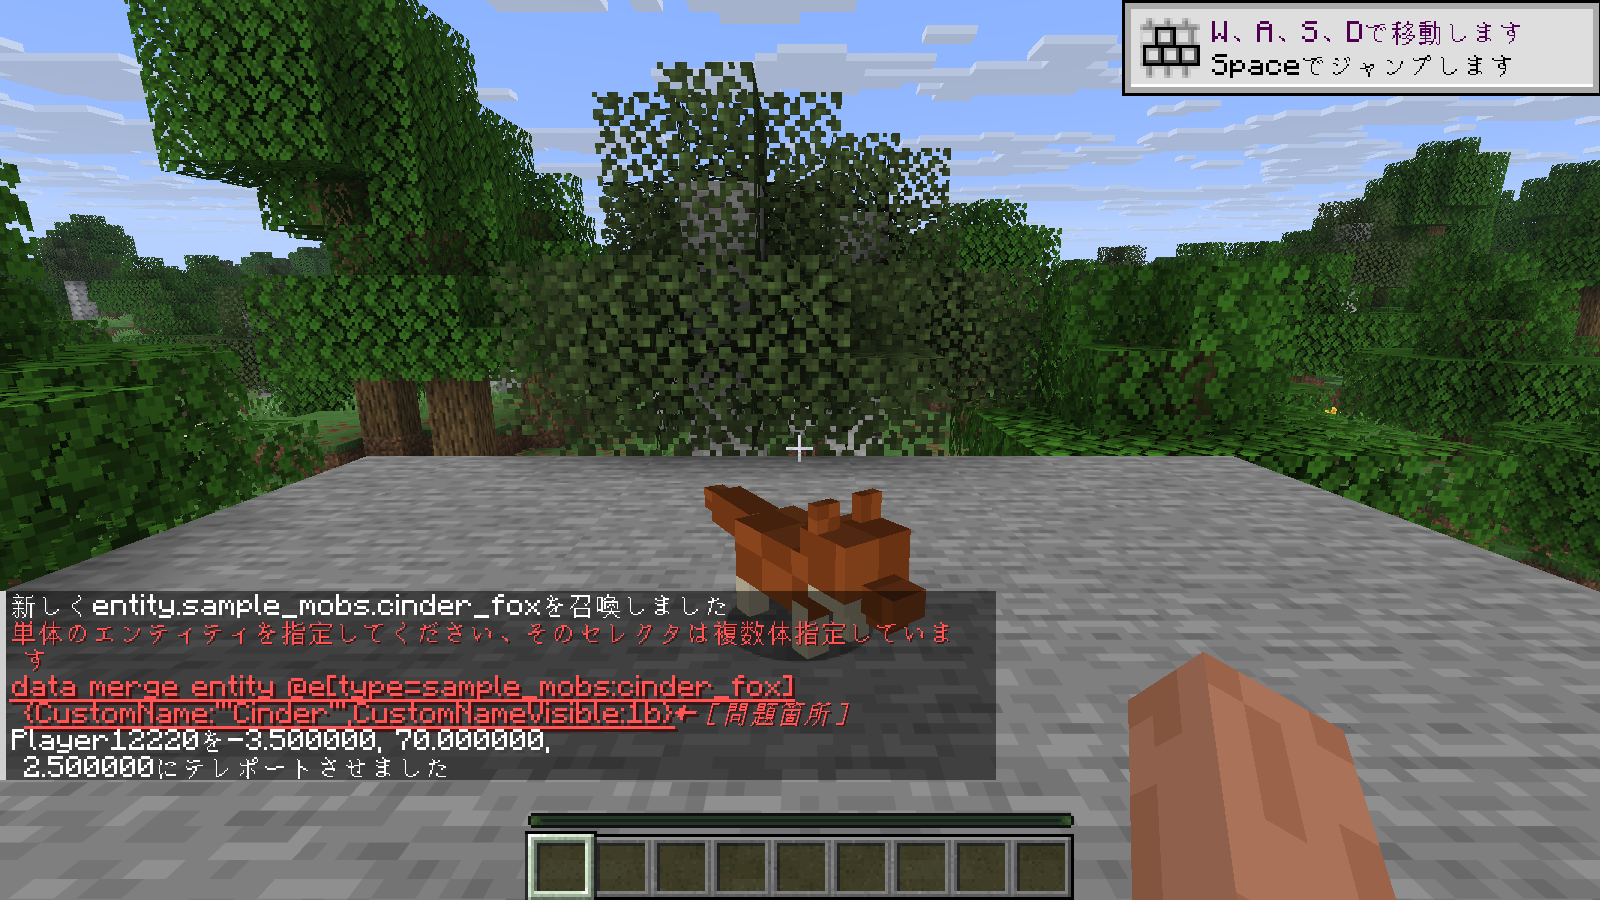
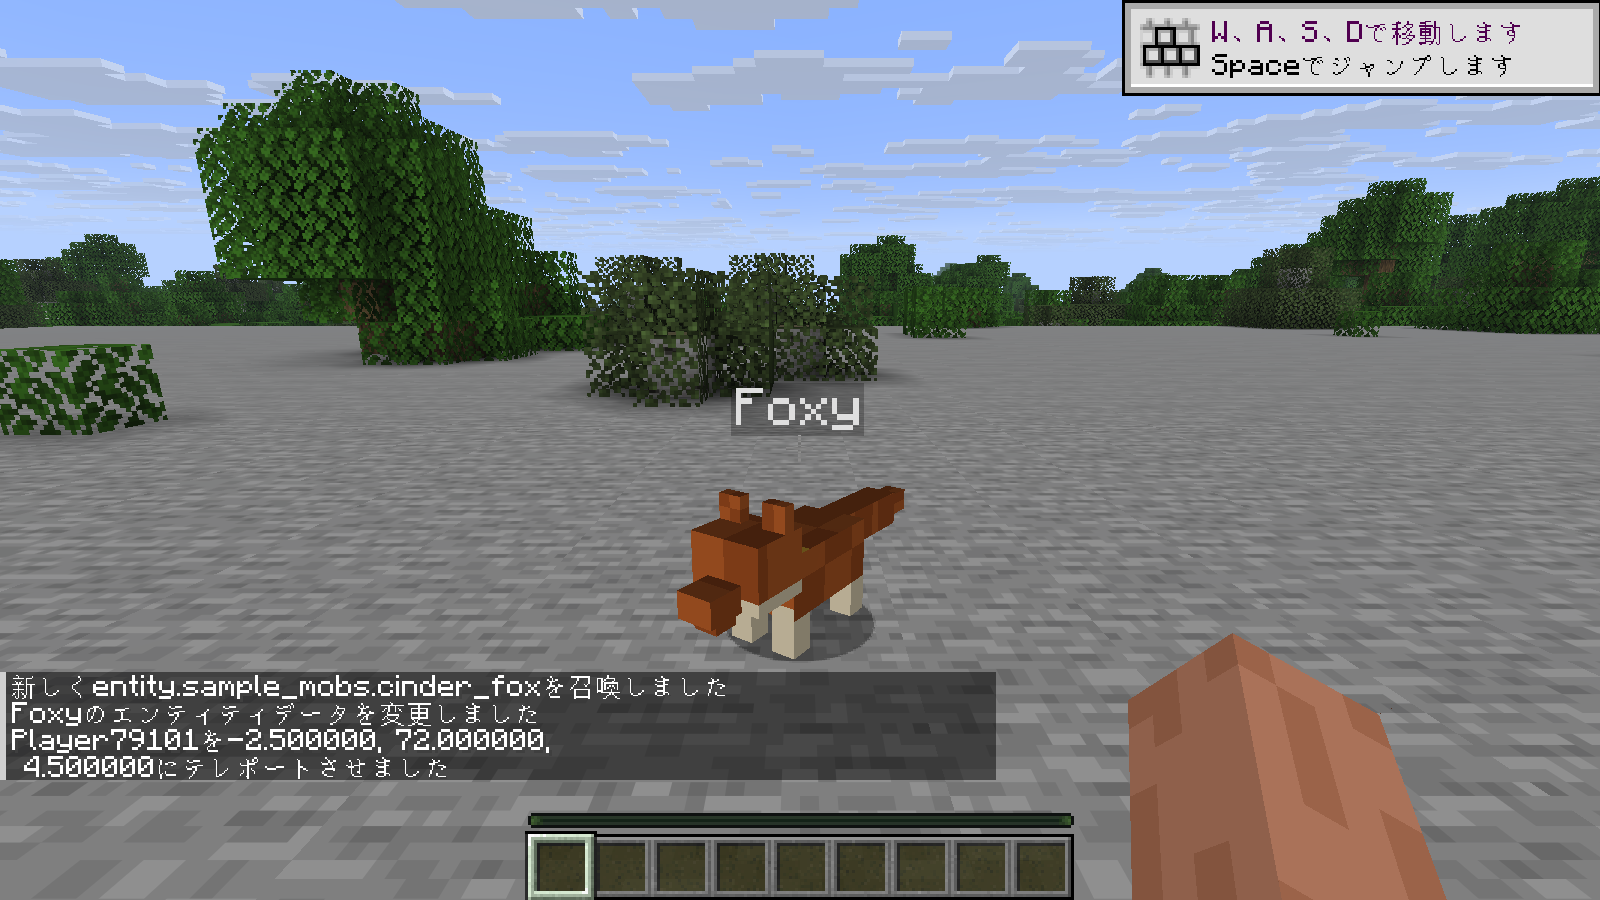
MERGE7: real fox_ai guest mode in custom_mob_render_e2e.py, script-goal gate log, raw log lines

diff --git a/tools/custom_mob_render_e2e.py b/tools/custom_mob_render_e2e.py
@@ -45,11 +45,11 @@ from lan_e2e import Game, changed_pixels, pos_of  # noqa: E402
 from mob_sync_e2e import wait_for_quiet  # noqa: E402
 
 ROOT = Path(__file__).resolve().parents[1]
-FIXTURE = ROOT / 'tools/fixtures/cinder_fox'
+FIXTURE = ROOT / 'tools/fixtures/cinder_fox'  # the package folder: yak.toml and content/
 FOX = 'sample_mobs:cinder_fox'
 FOXES = '@e[type=sample_mobs:cinder_fox]'
-ANIM = 'assets/sample_mobs/animations/cinder_fox.animation.json'
-TYPE = 'data/sample_mobs/horizon/entity_type/cinder_fox.json'
+ANIM = 'content/assets/sample_mobs/animations/cinder_fox.animation.json'
+TYPE = 'content/data/sample_mobs/horizon/entity_type/cinder_fox.json'
 
 SERVER_FRAME = re.compile(r'Horizon custom-mob server frame: mob (\d+) "(\w+)" tick (\d+)')
 EVENTS = re.compile(r'Horizon custom-mob events: mob (\d+) tick (\d+) count (\d+)')
@@ -58,10 +58,15 @@ PARTICLE = re.compile(r'Horizon custom-mob particle: mob (\d+) (\S+) at')
 EVENT = re.compile(r'Horizon custom-mob event: mob (\d+) "(\w+)" at')
 
 
-def patched_fixture(scratch):
-    """A copy of the fixture with a sound and a particle at the pounce's hit, and a melee goal that pounces."""
+def patched_fixture(scratch, wasm=None):
+    """A copy of the package with a sound and a particle at the pounce's hit. With `wasm` (the built fox_ai guest) the
+    real script goal stays and the player becomes a target; without it the script goal is replaced by a data
+    `melee_attack` that pounces."""
     dest = scratch / 'cinder_fox'
     shutil.copytree(FIXTURE, dest)
+    if wasm is not None:
+        (dest / 'bin/wasm').mkdir(parents=True, exist_ok=True)
+        shutil.copyfile(wasm, dest / 'bin/wasm/fox_ai.wasm')
     path = dest / ANIM
     data = json.loads(path.read_text(encoding='utf-8'))
     pounce = data['animations']['animation.cinder_fox.pounce']
@@ -73,6 +78,12 @@ def patched_fixture(scratch):
     data['attributes']['attack_damage'] = 2
     data['model']['particles'] = {'flame': 'minecraft:flame'}
     ai = data['ai']
+    if wasm is not None:
+        # The real script goal beside swimming only (no wandering, sitting or following), so the fox stands until it has a target.
+        ai['goals'] = [g for g in ai['goals'] if g['type'] in ('swim', 'script')]
+        ai['targets'] = [{'type': 'nearest_target', 'priority': 1, 'types': ['minecraft:chicken', 'minecraft:player']}]
+        path.write_text(json.dumps(data, indent=2), encoding='utf-8')
+        return dest
     # No wandering or looking about: the fox stands still until it has a target (a creative player is none).
     ai['goals'] = [g for g in ai['goals'] if g['type'] in ('swim',)]
     ai['goals'].append({'type': 'melee_attack', 'priority': 2, 'speed': 1.0, 'interval': 600,
@@ -81,6 +92,16 @@ def patched_fixture(scratch):
     ai['targets'] = [{'type': 'nearest_target', 'priority': 1, 'types': ['minecraft:chicken', 'minecraft:player']}]
     path.write_text(json.dumps(data, indent=2), encoding='utf-8')
     return dest
+
+
+def install_package(game, package):
+    """The package where the game reads installed ones (yoake-mods.txt, yoake-mods/<id>/<version>/)."""
+    root = game.work / 'yoake-mods/sample_mobs/0.1.0'
+    shutil.copytree(package, root)
+    (game.work / 'yoake-mods.txt').write_text('sample_mobs 0.1.0' + chr(10))
+
+
+STRIKE_LINE = re.compile(r'^.*Horizon custom-mob (?:strike|death|script goal):.*$', re.M)
 
 
 def log_of(game):
@@ -111,11 +132,18 @@ def look_at_fox(game, fox, back=2.0, dy=0.6):
     game.wait(6)
 
 
-def run(ctl, out, shots, resources):
+def run(ctl, out, shots, resources, wasm=None):
     scratch = Path(tempfile.mkdtemp(prefix='hzfox-'))
-    mod = patched_fixture(scratch)
+    mod = patched_fixture(scratch, wasm)
+    if wasm is not None:
+        os.environ['YOAKE_WASM_UNSIGNED'] = '1'  # developer mode: the package is not signed
     host, guest = Game('host', ctl, resources), Game('guest', ctl, resources)
-    args = ['--offscreen', '--no-focus', '--no-pause', '--pregen', '--dev-mod', str(mod)]  # --pregen turns Horizon's own commands on
+    args = ['--offscreen', '--no-focus', '--no-pause', '--pregen']  # --pregen turns Horizon's own commands on
+    if wasm is None:
+        args += ['--dev-mod', str(mod / 'content')]
+    else:
+        install_package(host, mod)
+        install_package(guest, mod)
     results = {}
     games = (host, guest)
     saved = {}
@@ -214,7 +242,7 @@ def run(ctl, out, shots, resources):
         # name tag
         host('command', command=f'summon {FOX} {hx + 0.5} {hy} {hz - 6.5}')
         host.wait(20)
-        named = host('command', command=f"data merge entity @e[type=sample_mobs:cinder_fox,limit=1] {{CustomName:\"Cinder\",CustomNameVisible:1b}}")
+        named = host('command', command=f"data merge entity @e[type=sample_mobs:cinder_fox,limit=1] {{CustomName:\"Foxy\",CustomNameVisible:1b}}")
         host.wait(10)
         fox = fox_list(host)[0]
         look_at_fox(host, fox, back=3.0, dy=0.9)
@@ -224,58 +252,64 @@ def run(ctl, out, shots, resources):
         results['name'] = {'pass': named_ok and Path(tag).stat().st_size > 5000, 'detail': {
             'data_merge_reply': named, 'png': saved['nametag'], 'note': 'the tag is judged by looking at the PNG (a pixel check cannot tell text)'}}
 
-        # strike-mob: a fox next to a chicken (creative host: no player target): the blow lands on the chicken.
-        host('command', command=f'kill @e[type=minecraft:chicken]')
-        host('command', command=f'summon minecraft:chicken {hx + 1.5} {hy} {hz - 1.5}')
-        host.wait(5)
-        mark_h = len(log_of(host))
-        host('command', command=f'summon {FOX} {hx + 1.5} {hy} {hz - 0.8}')
-        chicken_hp = []
-        for _ in range(100):
-            host.wait(2)
+        if wasm is None:
+            # strike-mob: a fox next to a chicken (creative host: no player target): the blow lands on the chicken.
+            host('command', command=f'kill @e[type=minecraft:chicken]')
+            host('command', command=f'summon minecraft:chicken {hx + 1.5} {hy} {hz - 1.5}')
+            host.wait(5)
+            mark_h = len(log_of(host))
+            host('command', command=f'summon {FOX} {hx + 1.5} {hy} {hz - 0.8}')
+            chicken_hp = []
+            for _ in range(100):
+                host.wait(2)
+                chickens = [e for e in host.raw('entities', 20)['entities'] if e.get('type') == 'minecraft:chicken']
+                chicken_hp.append(chickens[0]['health'] if chickens else None)
+                if SERVER_FRAME.search(log_of(host)[mark_h:]):
+                    break
+            host.wait(10)
             chickens = [e for e in host.raw('entities', 20)['entities'] if e.get('type') == 'minecraft:chicken']
             chicken_hp.append(chickens[0]['health'] if chickens else None)
-            if SERVER_FRAME.search(log_of(host)[mark_h:]):
-                break
-        host.wait(10)
-        chickens = [e for e in host.raw('entities', 20)['entities'] if e.get('type') == 'minecraft:chicken']
-        chicken_hp.append(chickens[0]['health'] if chickens else None)
-        results['strike_mob'] = {'pass': len(SERVER_FRAME.findall(log_of(host)[mark_h:])) == 1 and (chicken_hp[-1] is None or chicken_hp[-1] < 4.0),
-                                 'detail': {'chicken_health_samples': chicken_hp[-6:]}}
-        host('command', command='kill @e[type=minecraft:chicken]')
-        clear_foxes(host)
-        # strike: a fox with AI, the host in survival within reach: one hit.
+            results['strike_mob'] = {'pass': len(SERVER_FRAME.findall(log_of(host)[mark_h:])) == 1 and (chicken_hp[-1] is None or chicken_hp[-1] < 4.0),
+                                     'detail': {'chicken_health_samples': chicken_hp[-6:]}}
+            host('command', command='kill @e[type=minecraft:chicken]')
+            clear_foxes(host)
+        # strike: a fox with AI and survival players in reach. Data goal: the fox next to the host; real guest: the
+        # script goal needs the target 3 to 6 blocks away. Both players' health is recorded (the fox may pick the guest).
         host('command', command='gamemode survival')
+        guest('command', command='gamemode survival')
         host('command', command=f'tp @s {hx + 0.5} {hy} {hz + 0.5}')
+        guest('command', command=f'tp @s {hx + 3.5} {hy} {hz + 3.5}')
         host.wait(20)
-        before = host('state')['player']['health']
+        before = {'host': host('state')['player']['health'], 'guest': guest('state')['player']['health']}
         mark_h, mark_g = len(log_of(host)), len(log_of(guest))
-        host('command', command=f'summon {FOX} {hx + 1.5} {hy} {hz + 0.5}')
-        health = [before]
-        gap = []
-        for _ in range(160):
+        fx, fz = (hx + 0.5, hz + 4.5) if wasm is not None else (hx + 1.5, hz + 0.5)
+        host('command', command=f'summon {FOX} {fx} {hy} {fz}')
+        health = {'host': [before['host']], 'guest': [before['guest']]}
+        landed = re.compile(r'custom-mob strike: mob \d+ (?:hit|dropped)')
+        for _ in range(200):
             host.wait(2)
-            me = host('state')['player']
-            health.append(me['health'])
-            foxes = fox_list(host)
-            if foxes:
-                gap.append(round(((foxes[0]['pos'][0] - me['position'][0]) ** 2 + (foxes[0]['pos'][2] - me['position'][2]) ** 2) ** 0.5, 2))
-            if SERVER_FRAME.search(log_of(host)[mark_h:]):
+            for name, game in (('host', host), ('guest', guest)):
+                health[name].append(game('state')['player']['health'])
+            if landed.search(log_of(host)[mark_h:]):
                 break
         for _ in range(10):
             host.wait(2)
-            health.append(host('state')['player']['health'])
-        after = min(health)
+            for name, game in (('host', host), ('guest', guest)):
+                health[name].append(game('state')['player']['health'])
+        after = {k: min(v) for k, v in health.items()}
         h_text, g_text = log_of(host)[mark_h:], log_of(guest)[mark_g:]
         server = list(SERVER_FRAME.finditer(h_text))
         st = int(server[0].group(3)) if server else None
         ht = [int(m.group(2)) for m in EVENTS.finditer(h_text)]
         gt = [int(m.group(2)) for m in EVENTS.finditer(g_text)]
-        results['strike'] = {'pass': (len(server) == 1 and before - after == 2.0 and ht and st is not None
+        hurt = sorted(k for k in before if after[k] < before[k])
+        results['strike'] = {'pass': (len(server) >= 1 and len(hurt) == 1 and before[hurt[0]] - after[hurt[0]] == 2.0 and ht and st is not None
                                       and 0 <= ht[0] - st <= 1),
-                             'detail': {'server_frames': len(server), 'server_tick': st, 'health': [before, after], 'health_samples': health[-14:], 'fox_distance': gap[-6:],
-                                        'host_event_ticks': ht, 'guest_event_ticks': gt}}
+                             'detail': {'server_frames': len(server), 'server_tick': st, 'health_before_after': {k: [before[k], after[k]] for k in before},
+                                        'host_event_ticks': ht, 'guest_event_ticks': gt,
+                                        'strike_lines': STRIKE_LINE.findall(h_text)[:30]}}
         host('command', command='gamemode creative')
+        guest('command', command='gamemode creative')
 
         clear_foxes(host)
         # death: the death animation (0.6 s = 12 ticks) keeps the body, then it is removed.
@@ -283,6 +317,7 @@ def run(ctl, out, shots, resources):
         host.wait(20)
         fox = fox_list(host)
         look_at_fox(host, fox[0])
+        mark_death = len(log_of(host))
         host('command', command=f'damage @e[type=sample_mobs:cinder_fox,limit=1] 100 minecraft:generic')
         presence = []
         shot_taken = False
@@ -292,13 +327,17 @@ def run(ctl, out, shots, resources):
             if i == 2 and not shot_taken:
                 shot(host, 'death'); shot_taken = True
         results['death'] = {'pass': presence[0] == 1 and presence[-1] == 0,
-                            'detail': {'foxes_every_2_ticks_after_damage': presence, 'png': saved.get('death')}}
+                            'detail': {'foxes_every_2_ticks_after_damage': presence, 'png': saved.get('death'),
+                                       'death_lines': STRIKE_LINE.findall(log_of(host)[mark_death:])}}
         for game in games:
             game.shot(out, 'end')
     except (Failed, AssertionError, KeyError, StopIteration, IndexError, TypeError) as e:
         results.setdefault('error', {'pass': False, 'detail': repr(e)})
     finally:
         logs = {g.name: g.close() for g in reversed(games)}
+        lines = [f'[{n}] {l}' for n, t in logs.items() for l in STRIKE_LINE.findall(t)]
+        (out / 'custom-mob-log-lines.txt').write_text(chr(10).join(lines) + chr(10), encoding='utf-8')
+        saved['log_lines'] = str(out / 'custom-mob-log-lines.txt')
         for name, text in logs.items():
             (out / f'{name}.log').write_text(text)
         for g in games:
@@ -314,6 +353,7 @@ def main():
     parser.add_argument('--out', default=str(ROOT / 'target/custom-mob-render-e2e'))
     parser.add_argument('--shots', default=str(ROOT / 'docs/yoake2/reports/img'))
     parser.add_argument('--resources', default=os.environ.get('HORIZON_TEST_RESOURCES') or str(lab.RESOURCES))
+    parser.add_argument('--wasm', help='the built fox_ai guest: the real script goal runs (default: a data melee_attack goal instead)')
     parser.add_argument('--wait-minutes', type=int, default=30)
     args = parser.parse_args()
     resources = Path(args.resources).resolve()
@@ -327,7 +367,7 @@ def main():
     out = Path(args.out).resolve()
     out.mkdir(parents=True, exist_ok=True)
     ext = '.exe' if sys.platform == 'win32' else ''
-    results = run(Path(args.bin_dir).resolve() / f'horizon-ctl{ext}', out, Path(args.shots).resolve(), resources)
+    results = run(Path(args.bin_dir).resolve() / f'horizon-ctl{ext}', out, Path(args.shots).resolve(), resources, Path(args.wasm).resolve() if args.wasm else None)
     (out / 'results.json').write_text(json.dumps({'checks': results}, indent=2) + '\n')
     print(json.dumps(results, indent=1))
     sys.exit(0 if all(r['pass'] for r in results.values()) else 1)

diff --git a/crates/horizon-client/src/wasm_mods/mob_runtime.rs b/crates/horizon-client/src/wasm_mods/mob_runtime.rs
@@ -105,7 +105,26 @@ impl Runtime for WasmRuntime {
         })
     }
     fn goal_can_use(&self, mob: u32, goal: &str) -> Option<bool> {
-        any_true(each(|m| m.dispatch("mob_goal_can_use", |e, s| e.yoake_mods_server_hooks().call_mob_goal_can_use(s, mob, goal))))
+        let answer = any_true(each(|m| m.dispatch("mob_goal_can_use", |e, s| e.yoake_mods_server_hooks().call_mob_goal_can_use(s, mob, goal))));
+        // One info line when the gate's inputs for this mob and goal change (for the end-to-end run): the script goal's gate.
+        static LAST: std::sync::Mutex<Option<(u32, String, String)>> = std::sync::Mutex::new(None);
+        if let Ok(mut last) = LAST.lock() {
+            let v = crate::mobs::custom::script::view(mob);
+            let state = format!(
+                "can_use {answer:?} (on_ground {:?}, target {:?}, visible {:?}, has target_position {:?})",
+                v.as_ref().map(|v| v.on_ground),
+                v.as_ref().map(|v| (v.target_mob, v.target_player)),
+                v.as_ref().map(|v| v.target_visible),
+                v.as_ref().map(|v| v.target_position.is_some())
+            );
+            let key = (mob, goal.to_owned(), state.clone());
+            if last.as_ref() != Some(&key) {
+                let distance = v.as_ref().and_then(|v| v.target_position.map(|t| ((t[0] - v.position[0]).powi(2) + (t[1] - v.position[1]).powi(2) + (t[2] - v.position[2]).powi(2)).sqrt()));
+                log::info!("Horizon custom-mob script goal: mob {mob} {goal} {state} target distance {distance:?}");
+                *last = Some(key);
+            }
+        }
+        answer
     }
     fn goal_can_continue(&self, mob: u32, goal: &str) -> Option<bool> {
         any_true(each(|m| m.dispatch("mob_goal_can_continue", |e, s| e.yoake_mods_server_hooks().call_mob_goal_can_continue(s, mob, goal))))
